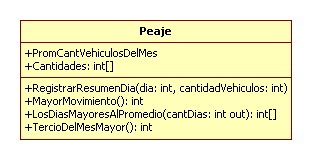
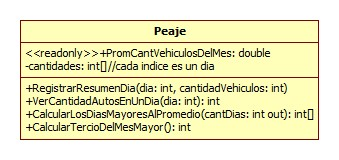
ejercicio 3

Changed region(s): [[0.0577, 0.125, 0.9519, 0.875], [0.4327, 0.1562, 0.5481, 0.25]]

diff --git a/Guia1.1/Ejercicio3/FormPrincipal.Designer.cs b/Guia1.1/Ejercicio3/FormPrincipal.Designer.cs
@@ -30,8 +30,8 @@ namespace Ej6_SistemaPeaje
         private void InitializeComponent()
         {
             this.btnRegistrarPeaje = new System.Windows.Forms.Button();
-            this.button1 = new System.Windows.Forms.Button();
-            this.listBox1 = new System.Windows.Forms.ListBox();
+            this.btnVer = new System.Windows.Forms.Button();
+            this.lbVer = new System.Windows.Forms.ListBox();
             this.SuspendLayout();
             // 
             // btnRegistrarPeaje
@@ -45,34 +45,34 @@ namespace Ej6_SistemaPeaje
             this.btnRegistrarPeaje.UseVisualStyleBackColor = true;
             this.btnRegistrarPeaje.Click += new System.EventHandler(this.btnRegistrarPeaje_Click);
             // 
-            // button1
+            // btnVer
             // 
-            this.button1.Location = new System.Drawing.Point(589, 113);
-            this.button1.Margin = new System.Windows.Forms.Padding(4, 5, 4, 5);
-            this.button1.Name = "button1";
-            this.button1.Size = new System.Drawing.Size(177, 61);
-            this.button1.TabIndex = 1;
-            this.button1.Text = "Ver Resumen";
-            this.button1.UseVisualStyleBackColor = true;
-            this.button1.Click += new System.EventHandler(this.button1_Click);
+            this.btnVer.Location = new System.Drawing.Point(589, 113);
+            this.btnVer.Margin = new System.Windows.Forms.Padding(4, 5, 4, 5);
+            this.btnVer.Name = "btnVer";
+            this.btnVer.Size = new System.Drawing.Size(177, 61);
+            this.btnVer.TabIndex = 1;
+            this.btnVer.Text = "Ver Resumen";
+            this.btnVer.UseVisualStyleBackColor = true;
+            this.btnVer.Click += new System.EventHandler(this.btnVer_Click);
             // 
-            // listBox1
+            // lbVer
             // 
-            this.listBox1.FormattingEnabled = true;
-            this.listBox1.ItemHeight = 20;
-            this.listBox1.Location = new System.Drawing.Point(18, 40);
-            this.listBox1.Margin = new System.Windows.Forms.Padding(4, 5, 4, 5);
-            this.listBox1.Name = "listBox1";
-            this.listBox1.Size = new System.Drawing.Size(563, 424);
-            this.listBox1.TabIndex = 2;
+            this.lbVer.FormattingEnabled = true;
+            this.lbVer.ItemHeight = 20;
+            this.lbVer.Location = new System.Drawing.Point(18, 40);
+            this.lbVer.Margin = new System.Windows.Forms.Padding(4, 5, 4, 5);
+            this.lbVer.Name = "lbVer";
+            this.lbVer.Size = new System.Drawing.Size(563, 424);
+            this.lbVer.TabIndex = 2;
             // 
             // FormPrincipal
             // 
             this.AutoScaleDimensions = new System.Drawing.SizeF(9F, 20F);
             this.AutoScaleMode = System.Windows.Forms.AutoScaleMode.Font;
             this.ClientSize = new System.Drawing.Size(793, 475);
-            this.Controls.Add(this.listBox1);
-            this.Controls.Add(this.button1);
+            this.Controls.Add(this.lbVer);
+            this.Controls.Add(this.btnVer);
             this.Controls.Add(this.btnRegistrarPeaje);
             this.Font = new System.Drawing.Font("Microsoft Sans Serif", 12F, System.Drawing.FontStyle.Regular, System.Drawing.GraphicsUnit.Point, ((byte)(0)));
             this.FormBorderStyle = System.Windows.Forms.FormBorderStyle.FixedSingle;
@@ -87,8 +87,8 @@ namespace Ej6_SistemaPeaje
         #endregion
 
         private System.Windows.Forms.Button btnRegistrarPeaje;
-        private System.Windows.Forms.Button button1;
-        private System.Windows.Forms.ListBox listBox1;
+        private System.Windows.Forms.Button btnVer;
+        private System.Windows.Forms.ListBox lbVer;
     }
 }
 

diff --git a/Guia1.1/Ejercicio3/Models/Peaje.cs b/Guia1.1/Ejercicio3/Models/Peaje.cs
@@ -8,13 +8,20 @@ namespace Ej6_SistemaPeaje
 {
     class Peaje
     {
-        int[] Cantidades;
+        int[] cantidades;
 
         public Peaje()
         {
-            Cantidades = new int[31];
+            cantidades = new int[31];
             for (int n = 0; n < 31; n++)
-                Cantidades[n] = 0;
+                cantidades[n] = 0;
+        }
+
+        public int VerCantidadAutosEnUnDia(int dia)
+        {
+            if(dia>=1 && dia<=31)
+                return cantidades[dia - 1];
+            return -1;
         }
 
         public double PromCantVehiculosDelMes
@@ -23,17 +30,18 @@ namespace Ej6_SistemaPeaje
             {
                 int acum = 0;
                 for (int n = 0; n < 31; n++)
-                    acum += Cantidades[n];
+                    acum += cantidades[n];
                 return acum / 31d;
             }
         }
 
         public void RegistrarResumenDia(int dia, int cantidadVehiculos)
         {
-            Cantidades[dia-1] = cantidadVehiculos;//indice=dia-1!
+            if (dia >= 1 && dia <= 31)
+                cantidades[dia-1] = cantidadVehiculos;//indice=dia-1!            
         }
 
-        public int[] LosDiasMayoresAlPromedio(out int cant)
+        public int[] CalcularLosDiasMayoresAlPromedio(out int cant)
         {
             cant = 0;
             double promedio = PromCantVehiculosDelMes;
@@ -41,7 +49,7 @@ namespace Ej6_SistemaPeaje
             int[] dias = new int[31];
             for (int n = 0; n < 31; n++)
             {
-                if (Cantidades[n] > promedio)
+                if (cantidades[n] > promedio)
                 {
                     dias[cant++] = n + 1;//día!
                 }
@@ -50,16 +58,16 @@ namespace Ej6_SistemaPeaje
             return dias;
         }
 
-        public int TercioDelMesMayor()
+        public int CalcularTercioDelMesMayor()
         {
             int[] periodos = new int[] { 0,0,0};
 
             #region determino la cantidad de vehículos por cada periodo
             for (int n = 0; n < 31; n++)
             {
-                if (n < 10) periodos[0] += Cantidades[n];
-                else if (n < 20) periodos[1] += Cantidades[n];
-                else periodos[2] += Cantidades[n];                
+                if (n < 10) periodos[0] += cantidades[n];
+                else if (n < 20) periodos[1] += cantidades[n];
+                else periodos[2] += cantidades[n];                
             }
             #endregion
 

diff --git a/Guia1.1/Ejercicio1/FormVer.Designer.cs b/Guia1.1/Ejercicio1/FormVer.Designer.cs
@@ -37,16 +37,16 @@
             // 
             this.lbxResultados.FormattingEnabled = true;
             this.lbxResultados.ItemHeight = 20;
-            this.lbxResultados.Location = new System.Drawing.Point(20, 49);
+            this.lbxResultados.Location = new System.Drawing.Point(9, 45);
             this.lbxResultados.Margin = new System.Windows.Forms.Padding(6, 8, 6, 8);
             this.lbxResultados.Name = "lbxResultados";
-            this.lbxResultados.Size = new System.Drawing.Size(485, 64);
+            this.lbxResultados.Size = new System.Drawing.Size(485, 124);
             this.lbxResultados.TabIndex = 7;
             // 
             // label3
             // 
             this.label3.AutoSize = true;
-            this.label3.Location = new System.Drawing.Point(15, 14);
+            this.label3.Location = new System.Drawing.Point(5, 17);
             this.label3.Margin = new System.Windows.Forms.Padding(6, 0, 6, 0);
             this.label3.Name = "label3";
             this.label3.Size = new System.Drawing.Size(90, 20);
@@ -56,7 +56,7 @@
             // button1
             // 
             this.button1.DialogResult = System.Windows.Forms.DialogResult.OK;
-            this.button1.Location = new System.Drawing.Point(218, 115);
+            this.button1.Location = new System.Drawing.Point(206, 185);
             this.button1.Margin = new System.Windows.Forms.Padding(6, 8, 6, 8);
             this.button1.Name = "button1";
             this.button1.Size = new System.Drawing.Size(92, 44);
@@ -68,7 +68,7 @@
             // 
             this.AutoScaleDimensions = new System.Drawing.SizeF(9F, 20F);
             this.AutoScaleMode = System.Windows.Forms.AutoScaleMode.Font;
-            this.ClientSize = new System.Drawing.Size(509, 176);
+            this.ClientSize = new System.Drawing.Size(504, 237);
             this.Controls.Add(this.button1);
             this.Controls.Add(this.label3);
             this.Controls.Add(this.lbxResultados);
@@ -76,6 +76,7 @@
             this.FormBorderStyle = System.Windows.Forms.FormBorderStyle.FixedSingle;
             this.Margin = new System.Windows.Forms.Padding(4, 5, 4, 5);
             this.Name = "FormVer";
+            this.StartPosition = System.Windows.Forms.FormStartPosition.CenterParent;
             this.Text = "Ver Resultados";
             this.ResumeLayout(false);
             this.PerformLayout();

diff --git a/Guia1.1/Ejercicio3/FormPrincipal.cs b/Guia1.1/Ejercicio3/FormPrincipal.cs
@@ -4,6 +4,7 @@ using System.ComponentModel;
 using System.Data;
 using System.Drawing;
 using System.Linq;
+using System.Security.Cryptography;
 using System.Text;
 using System.Threading.Tasks;
 using System.Windows.Forms;
@@ -37,8 +38,23 @@ namespace Ej6_SistemaPeaje
             }
         }
 
-        private void button1_Click(object sender, EventArgs e)
+        private void btnVer_Click(object sender, EventArgs e)
         {
+            lbVer.Items.Clear();
+
+            lbVer.Items.Add("Los días en que ingresaron más autos que el promedio en el mes:");
+            int[] dias=peaje.CalcularLosDiasMayoresAlPromedio(out int cantDias);
+
+            for (int n = 0; n < cantDias; n++)
+            {
+                lbVer.Items.Add($"{dias[n]} (cantidad: {peaje.VerCantidadAutosEnUnDia(dias[n])})");
+            }
+
+            lbVer.Items.Add("Cuál de los tercios del mes tuvo mayor movimiento?");
+            int tercio = peaje.CalcularTercioDelMesMayor();
+            
+            lbVer.Items.Add(tercio);
+            
 
         }
     }

diff --git a/Guia1.1/Ejercicio1/FormPrincipal.Designer.cs b/Guia1.1/Ejercicio1/FormPrincipal.Designer.cs
@@ -210,7 +210,7 @@
             // 
             this.AutoScaleDimensions = new System.Drawing.SizeF(9F, 20F);
             this.AutoScaleMode = System.Windows.Forms.AutoScaleMode.Font;
-            this.ClientSize = new System.Drawing.Size(670, 237);
+            this.ClientSize = new System.Drawing.Size(670, 247);
             this.Controls.Add(this.label6);
             this.Controls.Add(this.textBox2);
             this.Controls.Add(this.label5);
@@ -229,6 +229,7 @@
             this.FormBorderStyle = System.Windows.Forms.FormBorderStyle.FixedSingle;
             this.Margin = new System.Windows.Forms.Padding(4, 5, 4, 5);
             this.Name = "FormPrincipal";
+            this.StartPosition = System.Windows.Forms.FormStartPosition.CenterScreen;
             this.Text = "Tasación de motos";
             ((System.ComponentModel.ISupportInitialize)(this.nupModelo)).EndInit();
             ((System.ComponentModel.ISupportInitialize)(this.nupAñoCalcular)).EndInit();
